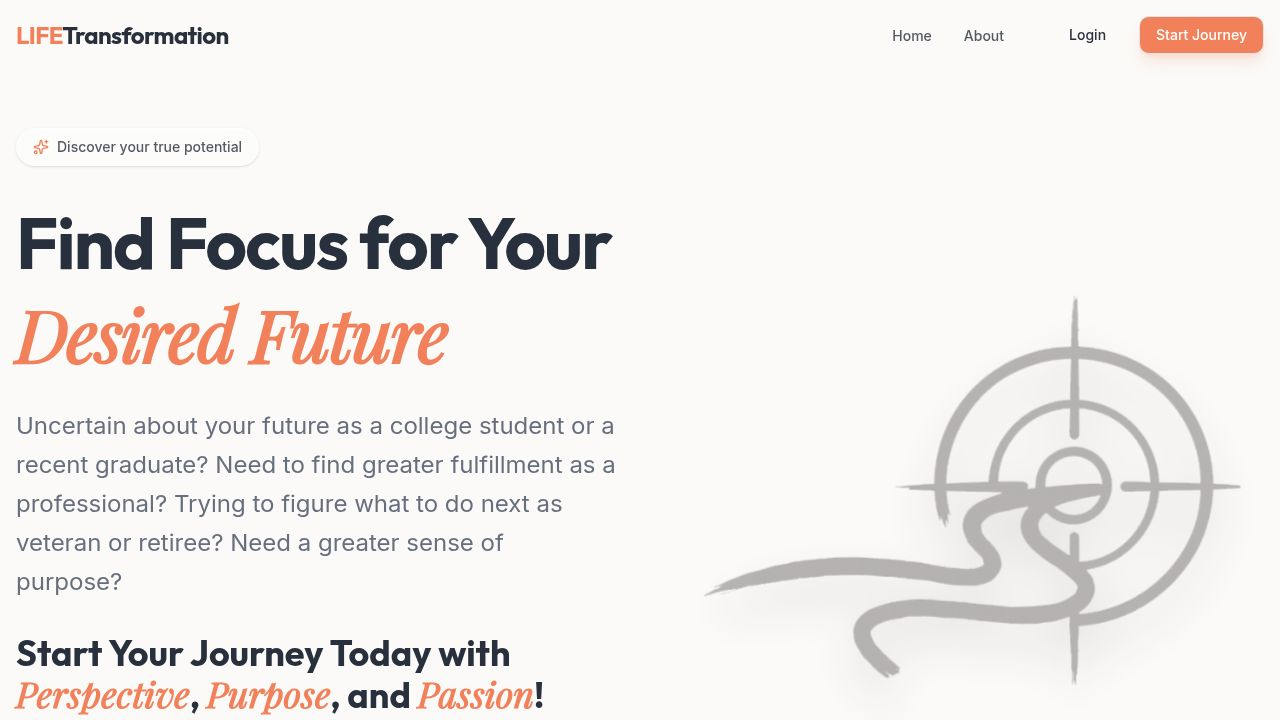
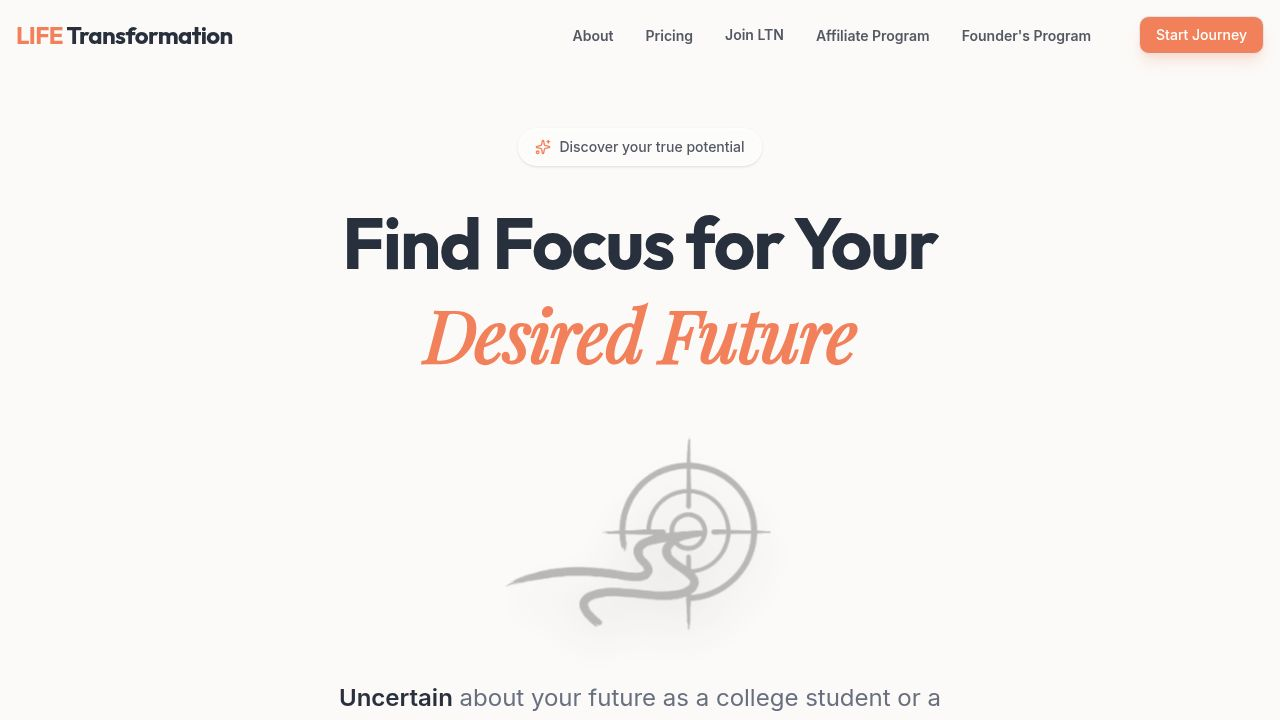
Update hero section text to bold key phrases and rephrase content
Bold key phrases and rephrase text in the hero section of the homepage.

Replit-Commit-Author: Agent
Replit-Commit-Session-Id: 2f27e978-f5d9-495f-af94-c9a188f07dc2
Replit-Commit-Checkpoint-Type: full_checkpoint
Replit-Commit-Event-Id: 6b9e0ed8-2f00-4482-baf8-96a8e32f709c
Replit-Commit-Screenshot-Url: https://storage.googleapis.com/screenshot-production-us-central1/e830f26d-e299-42ff-93b1-da7f363f46a7/2f27e978-f5d9-495f-af94-c9a188f07dc2/Exj2yfp
Replit-Helium-Checkpoint-Created: true

diff --git a/client/src/components/hero.tsx b/client/src/components/hero.tsx
@@ -66,7 +66,7 @@ export function Hero() {
               transition={{ duration: 0.6, delay: 0.2, ease: "easeOut" }}
               className="text-xl text-muted-foreground md:text-2xl max-w-2xl mx-auto mb-8 leading-relaxed"
             >
-              Uncertain about your future as a college student or a recent graduate? Need to find greater fulfillment as a professional? Trying to figure what to do next as veteran or retiree? Need a greater sense of purpose?
+              <span className="font-bold text-foreground">Uncertain</span> about your future as a college student or a recent graduate? Need to find <span className="font-bold text-foreground">greater fulfillment</span> as a professional? <span className="font-bold text-foreground">Determining what's next</span> as veteran or retiree? Need a <span className="font-bold text-foreground">greater sense of purpose?</span>
             </motion.p>
 
             <motion.h2
